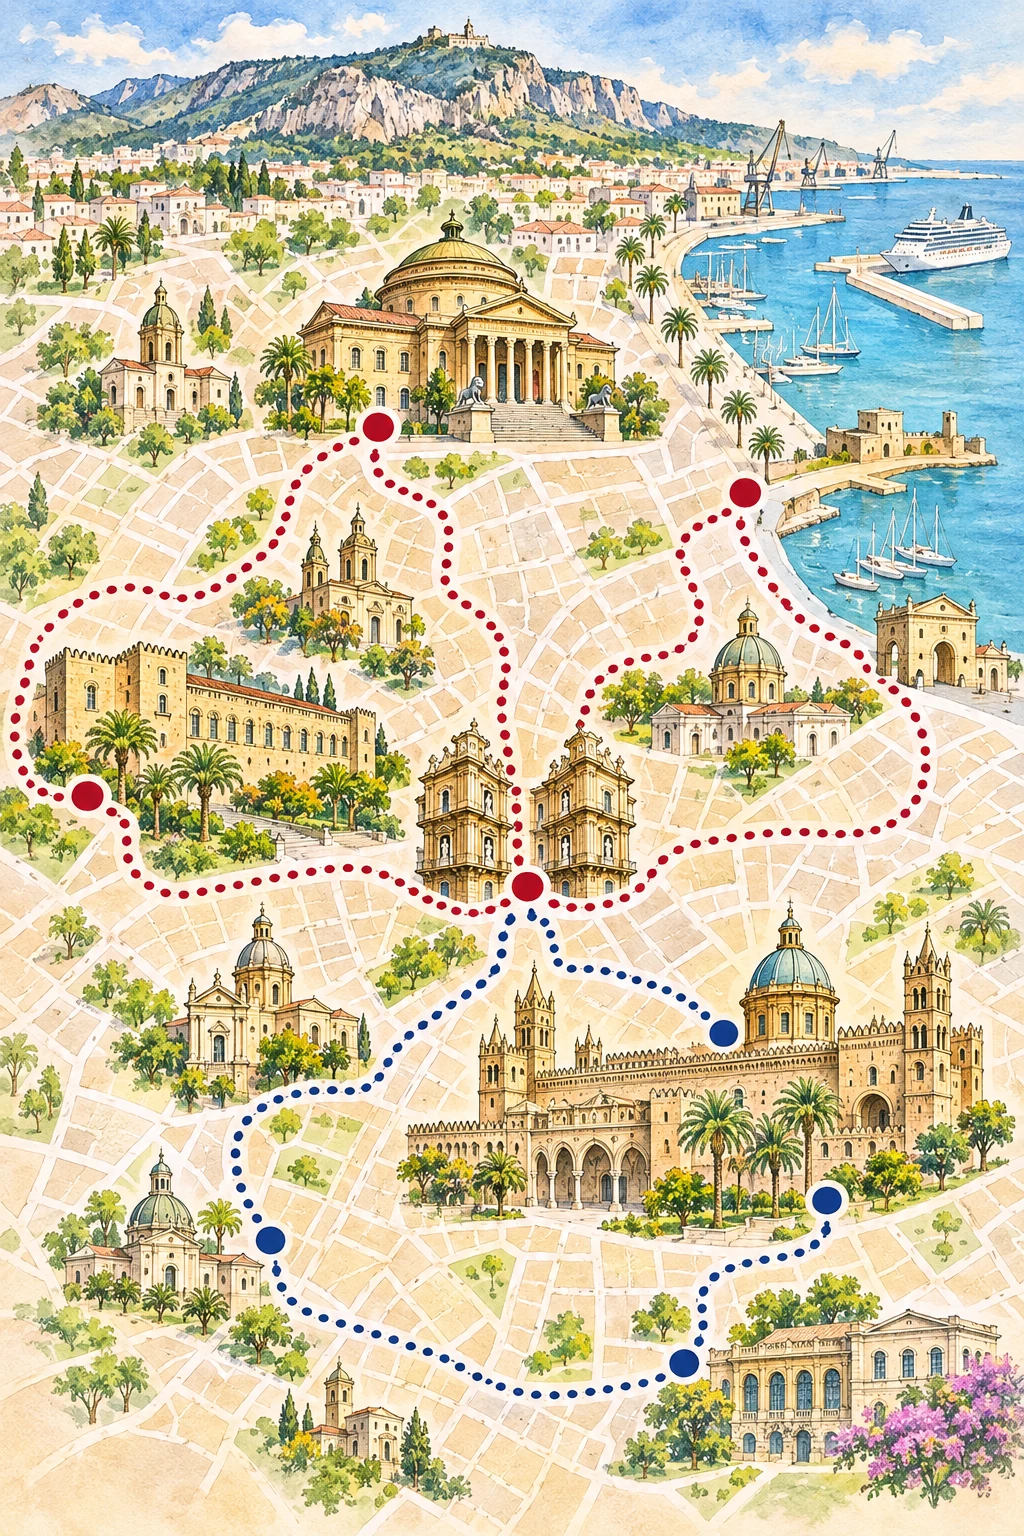
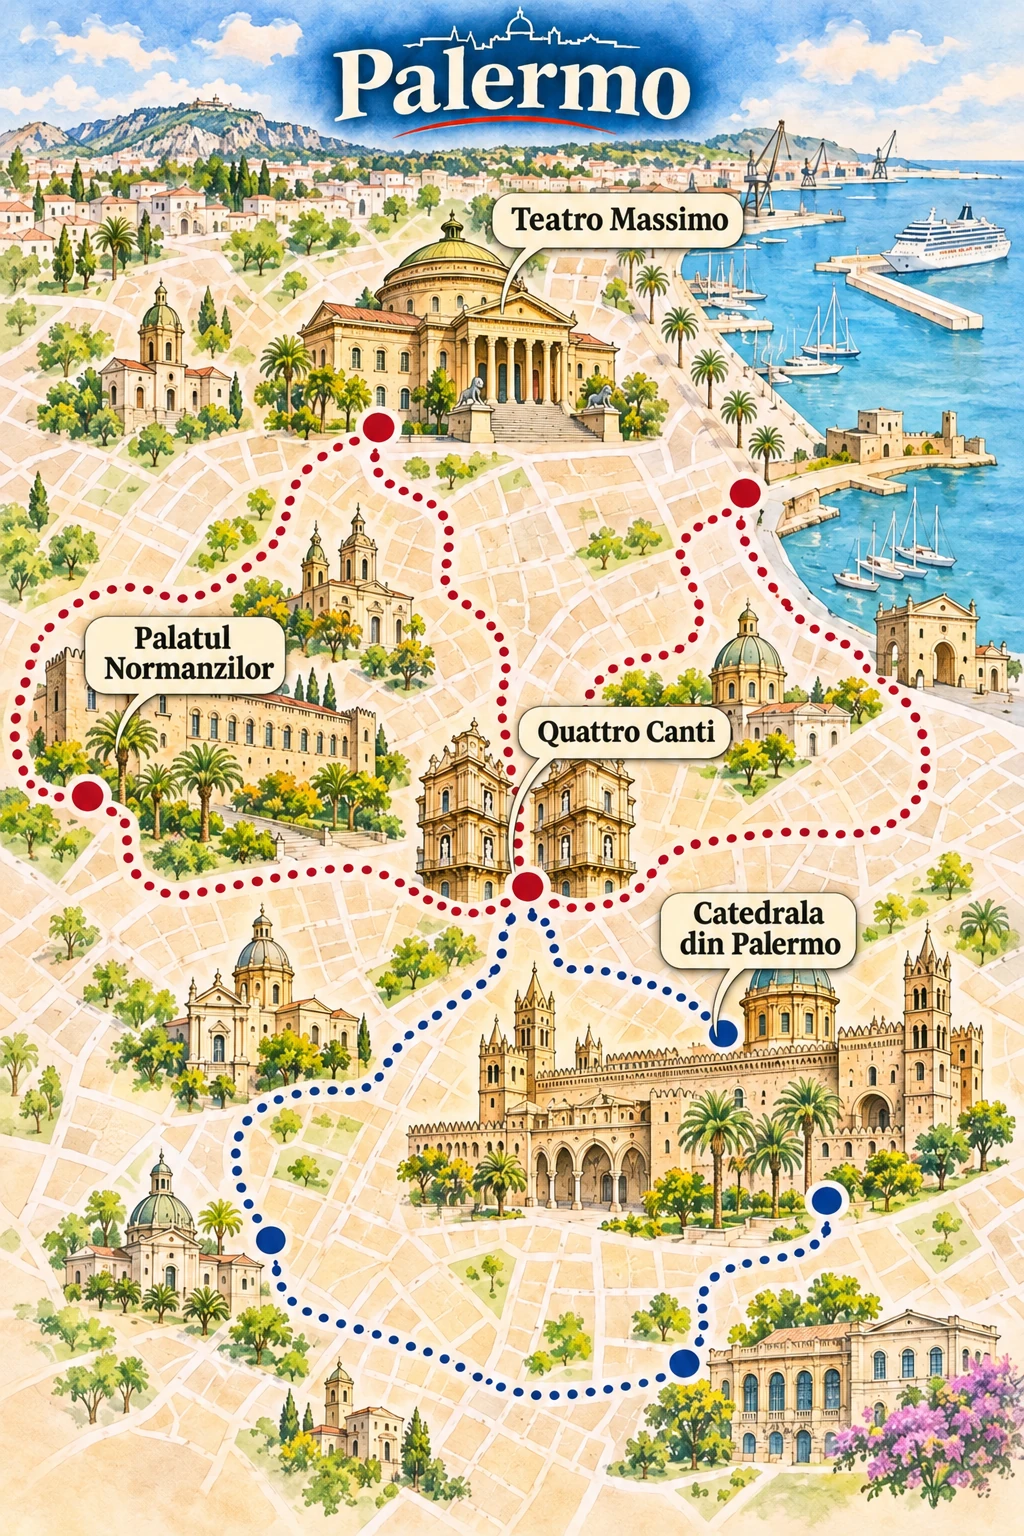
Label Palermo guide map

diff --git a/ILUSTRATII.md b/ILUSTRATII.md
@@ -38,9 +38,10 @@ Se adaugă numele obiectivelor direct pe hărțile existente, în stilul aprobat
 - Sevilla
 - Istanbul
 - Dubrovnik
+- Palermo
 
 Harta originală pentru Praga avea deja etichete. Celelalte orașe din `assets/guides-prague-style/` necesită în continuare verificare și prelucrare. Actualizează această listă în același commit cu fiecare lot nou.
 
-Ilustrațiile fără etichete sunt păstrate în istoricul Git: pentru Roma și Barcelona folosește fișierul de la commitul `14f016a`, iar pentru Paris, Londra, Lisabona, Berlin și Bruxelles de la `508e691`. Pentru Budapesta, Atena, Veneția, Amsterdam, Viena, Milano, Madrid, Bologna, Lyon, Porto, Varșovia, Copenhaga, Edinburgh, Bruges, Köln, Dublin, Cracovia, Stockholm, Chișinău, Bratislava, Sofia, Oslo, Bari, Napoli, Sevilla, Istanbul și Dubrovnik se pot folosi originalele de la `48efdd5`. Copii locale sunt în `/workspace/guide-batch/original-illustrations` când acel director este disponibil. Păstrează imaginile originale pentru quiz.
+Ilustrațiile fără etichete sunt păstrate în istoricul Git: pentru Roma și Barcelona folosește fișierul de la commitul `14f016a`, iar pentru Paris, Londra, Lisabona, Berlin și Bruxelles de la `508e691`. Pentru Budapesta, Atena, Veneția, Amsterdam, Viena, Milano, Madrid, Bologna, Lyon, Porto, Varșovia, Copenhaga, Edinburgh, Bruges, Köln, Dublin, Cracovia, Stockholm, Chișinău, Bratislava, Sofia, Oslo, Bari, Napoli, Sevilla, Istanbul, Dubrovnik și Palermo se pot folosi originalele de la `48efdd5`. Copii locale sunt în `/workspace/guide-batch/original-illustrations` când acel director este disponibil. Păstrează imaginile originale pentru quiz.
 
 Nu modifica funcționalitatea de căutare a zborurilor în cadrul acestei activități.
